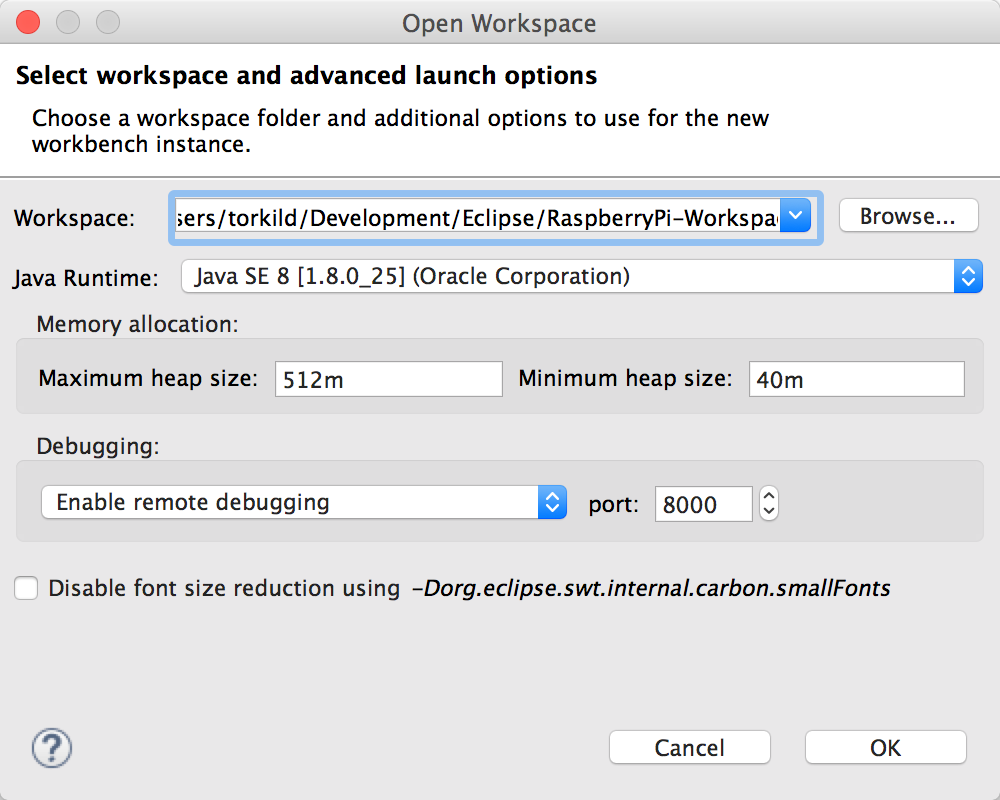
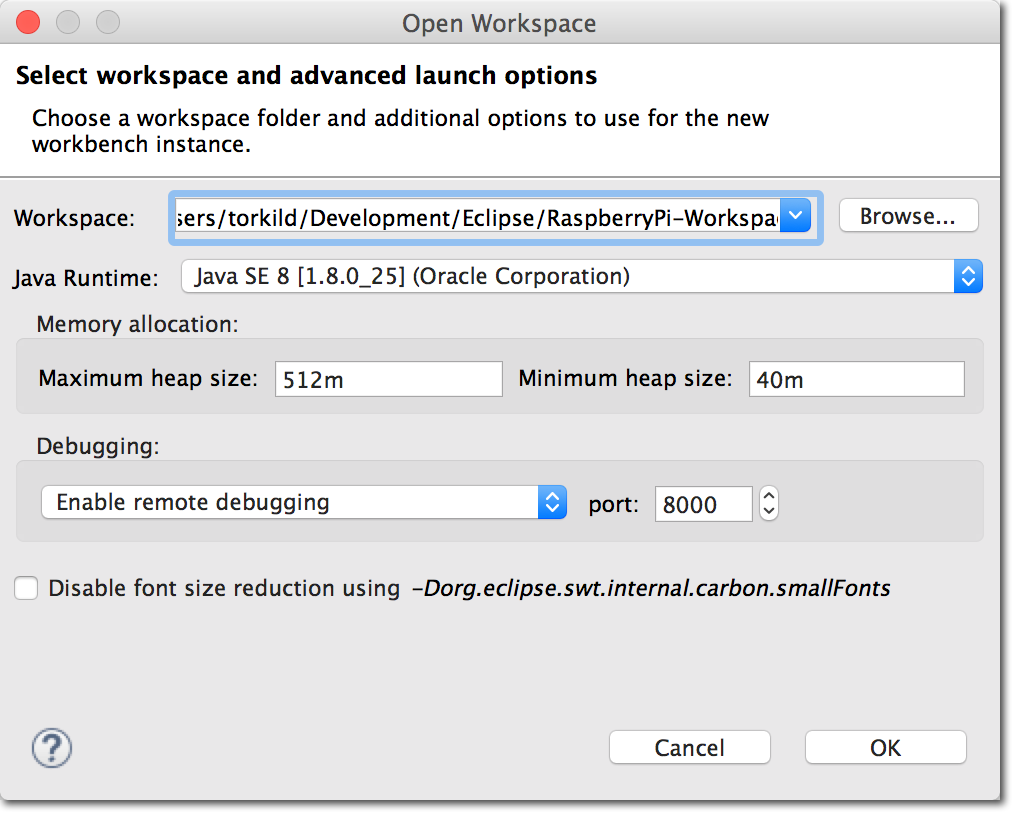
Updated for 1.4.0 release

Changed region(s): [[0.0, 0.0, 1.0, 1.0], [0.031, 0.5312, 0.775, 0.6562], [0.0, 0.6875, 0.899, 0.75]]

diff --git a/README.md b/README.md
@@ -8,7 +8,7 @@ Now with all these Eclipse instances up and running it is probably a good idea t
 
 Additionaly it is possible to use the **Advanced...** menu item that allowing you to specify launch options when opening a new workspace. Using this you can easily debug a new instance of the running IDE without creating a launch configuration.
 
-<img src="https://raw.github.com/turesheim/eclipse-utilities/master/images/Open_Workspace.png" width="500"/>
+<img src="https://raw.github.com/turesheim/eclipse-utilities/master/images/Open_Workspace.png" width="510"/>
 
 Note that OS X 10.6 or newer is required as this feature relies on the [open](http://developer.apple.com/library/mac/#documentation/Darwin/Reference/ManPages/man1/open.1.html) command's ability to pass on arguments.
 

diff --git a/CHANGES.md b/CHANGES.md
@@ -1,6 +1,6 @@
 ##Changes
 
-###Version 1.4.0 (2014-11-01)
+###Version 1.4.0 (2014-11-13)
 * Various housekeeping: Set up Mylyn configuration for each project. Fixed broken test running from Tycho. Added Eclipse-SourceReferences in Manifest Headers. Set OS-filter in features.xml. Added license text etc.
 * Added "Advanced" menu entry in for the "Eclipse Launcher" which is now at version 2.0.0. This opens a dialog with additional options for opening a new instance of Eclipse.
   * Which JRE to use, a list of detected runtimes are displayed.
